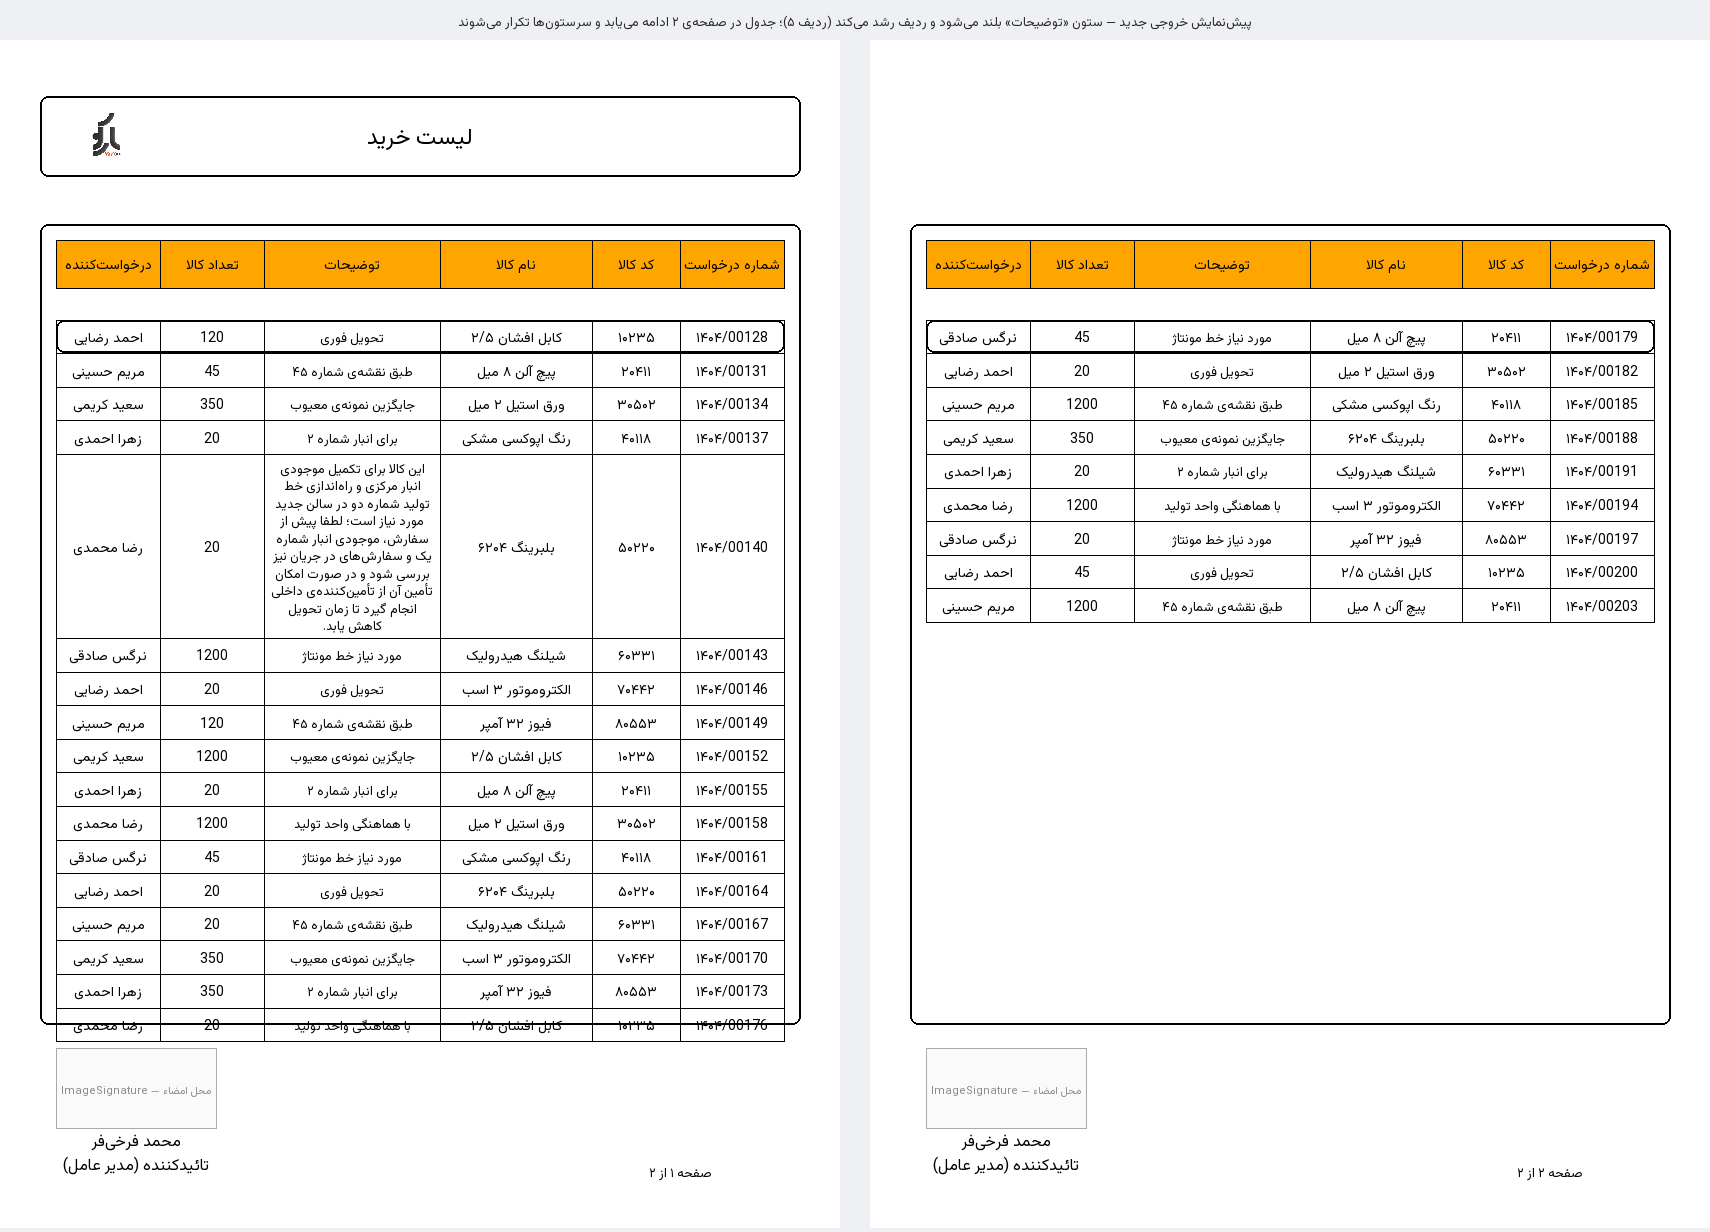
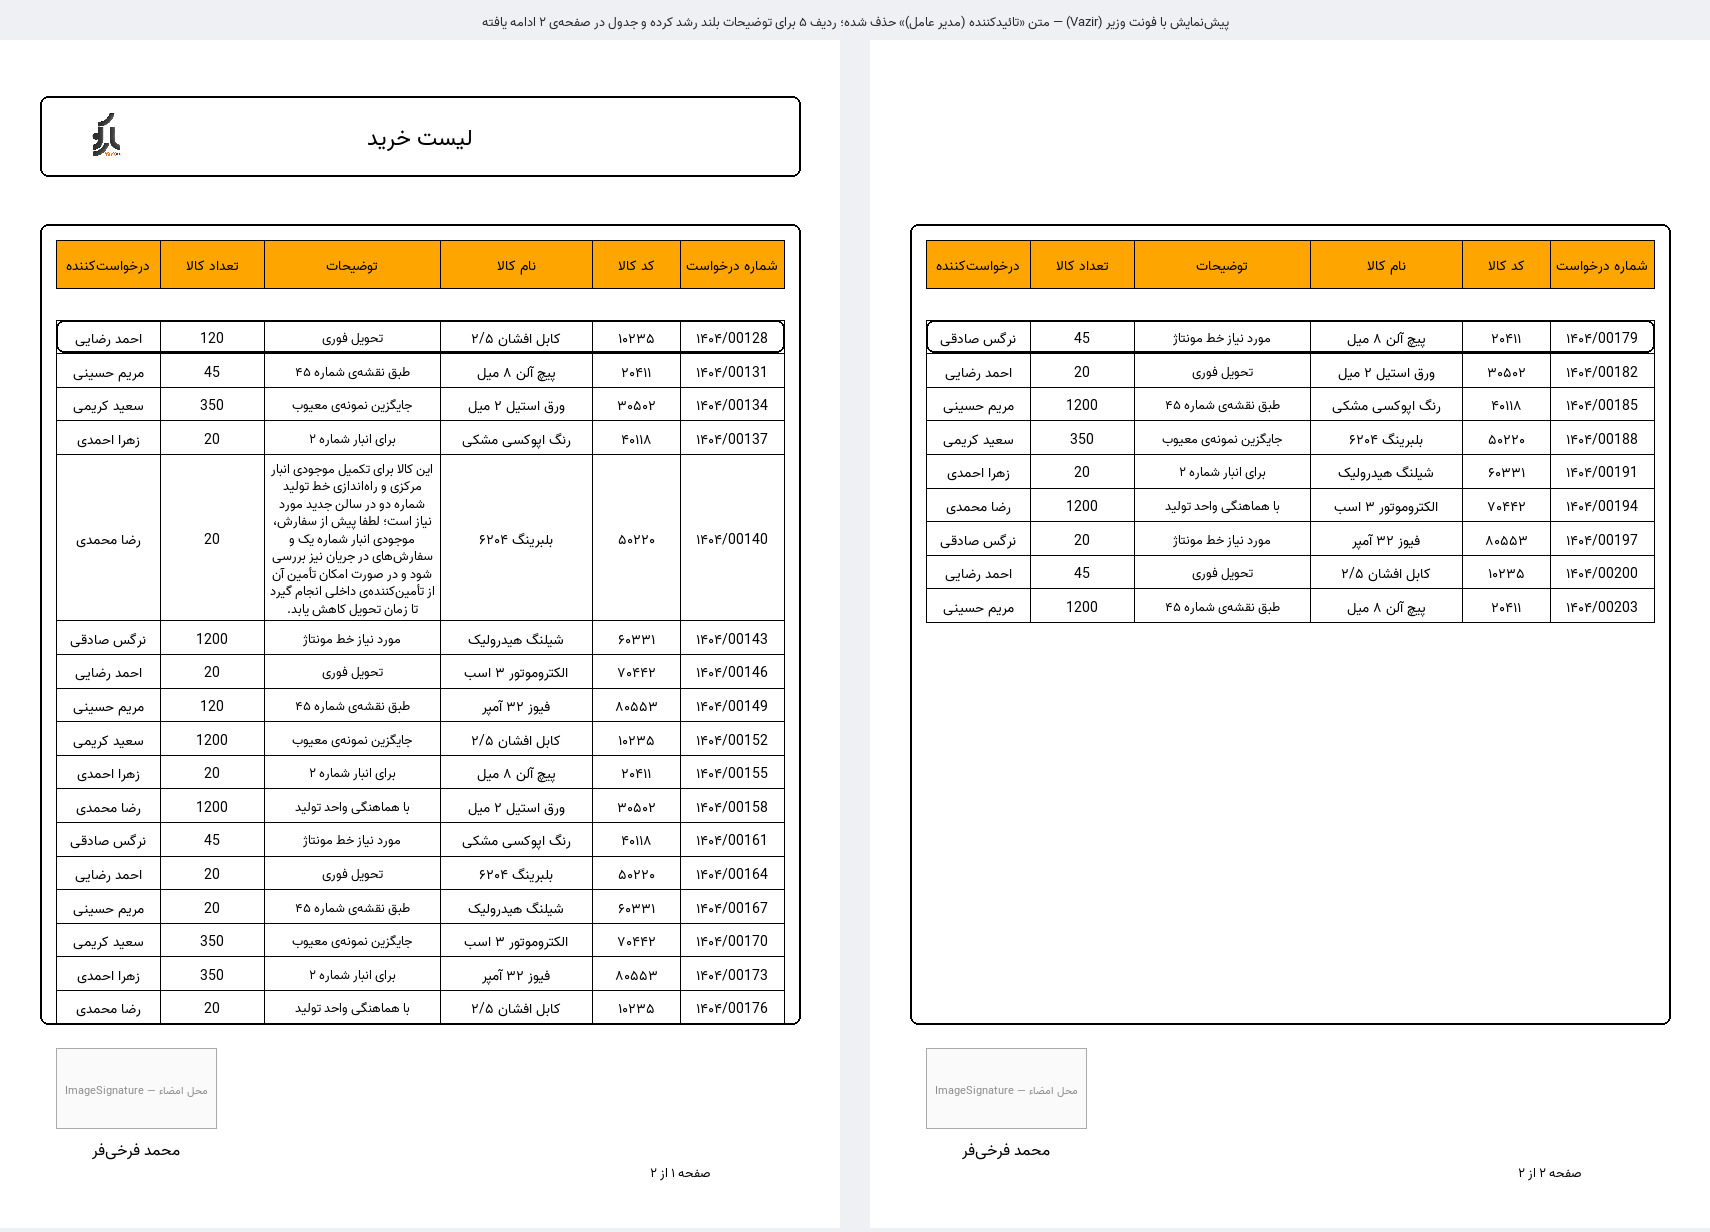
حذفِ متن «تائیدکننده (مدیر عامل)» و تغییرِ فونتِ کلِ گزارش به Vazir
۱) حذفِ کامپوننت Text9 (برچسبِ «تائیدکننده (مدیر عامل)») از PageFooterBand1.
   پانویس حالا فقط ۳ کامپوننت دارد: تصویرِ امضا {ImageSignature}،
   نام {DataSource1.TaiidKonandeName} و شماره صفحه. count از ۴ به ۳ کاهش یافت.

۲) جابهجاییِ جزئیِ نام به y=2.3 (قبلاً 2.1) تا فاصلهاش با تصویرِ امضا
   (که در y=2.1 تمام میشود) متعادل شود.

۳) تغییرِ فونتِ همهی ۱۵ المان از "B Yekan" به "Vazir":
   Vazir,16 عنوان | Vazir,11 نام تاییدکننده | Vazir,10 سرستونها و سلولها
   | Vazir,9 توضیحات و شماره صفحه.
   نامِ دقیقِ خانوادهی فونت در فایلِ TTF برابر با "Vazir" تأیید شد.

۴) بازسازیِ پیشنمایش با فونتِ Vazir واقعی (نسخهی 30.1.0) و پانویسِ بدون برچسب.

۵) مستندات: بخش ۳ بازنویسی شد، بخش ۳-ب (فونت و الزامِ نصب روی سرور) اضافه شد.

QC: XML معتبر · Ref یکتا · countها صحیح · هیچ B Yekan باقی نمانده ·
PrintOnAllPages و GrowToHeight دستنخورده · BOM/CRLF حفظ شده.

diff --git a/KalaRequest-GUIDE-fa.md b/KalaRequest-GUIDE-fa.md
@@ -64,21 +64,56 @@
 | راست (x=۱۴) | انباردار | `{DataSource1.UserName}` | `{ImageAnbar}` |
 | چپ (x=۰.۴) | تائیدکننده | `{DataSource1.SematName}` | `{ImageSignature}` |
 
-**بعد از تغییر** — فقط یک باکس:
+**بعد از تغییر** — فقط یک باکس، **و بدونِ برچسبِ متنی**:
 
-| موقعیت | برچسب | نام | تصویر امضا |
-|--------|-------|-----|------------|
-| ~~راست~~ | ~~انباردار~~ — **حذف شد** | — | — |
-| چپ (x=۰.۴) | **تائیدکننده (مدیر عامل)** | `{DataSource1.TaiidKonandeName}` | `{ImageSignature}` |
+| کامپوننت | موقعیت | محتوا |
+|----------|--------|-------|
+| ~~باکسِ انباردار~~ | ~~راست~~ | **حذف شد** |
+| `Image1` | ۰.۴ , ۰.۱ — ۴×۲ | تصویر امضا `{ImageSignature}` |
+| `Text6` | ۰.۴ , ۲.۳ — ۴×۰.۶ | نام `{DataSource1.TaiidKonandeName}` |
+| `Text_PageNumber` | ۱۳.۵ , ۲.۹ — ۵×۰.۶ | «صفحه {PageNumber} از {TotalPageCount}» |
 
-تغییرات جزئیِ این بخش:
+> بنا به درخواست، متنِ «تائیدکننده (مدیر عامل)» از پانویس **حذف شد** — نیازی نبود.
+> حالا فقط تصویرِ امضا و نامِ تاییدکننده زیر آن چاپ میشود.
+
+تغییراتِ این بخش:
 * کامپوننتهای `Image5`، `Text7` (انباردار) و `Text8` (`{UserName}`) حذف شدند
-* نام و برچسب زیر امضا هر دو `HorAlignment = Center` شدند و عرضشان دقیقاً با کادر امضا
-  (۴cm) یکی شد — قبلاً نام ۰.۸cm به چپ میلغزید و تراز نبود
-* ارتفاع کادر امضا ۲.۲ → ۲cm شد تا به انتهای باند نچسبد
+* کامپوننت `Text9` (برچسب «تائیدکننده (مدیر عامل)») نیز حذف شد
+* نام زیر امضا `HorAlignment = Center` شد و عرضش دقیقاً با کادر امضا (۴cm) یکی است
+  — قبلاً ۰.۸cm به چپ میلغزید و تراز نبود
+* ارتفاع کادر امضا ۲.۲ → ۲cm شد و نام کمی پایینتر رفت (y از ۲.۱ به ۲.۳)
+  تا فاصلهاش با تصویرِ امضا متعادل شود
 * متغیر `{ImageAnbar}` دیگر استفاده نمیشود (در دیکشنری باقی است، بیخطر)
 
 ---
+
+## ۳-ب. فونت: همهجا Vazir (وزیر)
+
+فونتِ کلِ گزارش از **B Yekan** به **Vazir** تغییر یافت (۱۵ مورد):
+
+| اندازه | کاربرد | تعداد |
+|--------|--------|-------|
+| `Vazir,16` | عنوان «لیست خرید» | ۱ |
+| `Vazir,11` | نامِ تاییدکننده در پانویس | ۱ |
+| `Vazir,10` | سرستونها و سلولهای جدول | ۱۱ |
+| `Vazir,9`  | ستونِ توضیحات و شماره صفحه | ۲ |
+
+### ⚠ الزام: فونت باید نصب باشد
+
+Stimulsoft فونت را در فایلِ mrt جاسازی نمیکند — فقط **نامِ خانواده** را ذخیره میکند.
+بنابراین فونتِ Vazir باید روی **هر دستگاهی که گزارش را اجرا یا چاپ میکند** نصب باشد
+(بهویژه روی سرور، اگر خروجیِ PDF در سمتِ سرور ساخته میشود).
+
+* دانلود: <https://github.com/rastikerdar/vazir-font/releases>
+* نصب روی ویندوز: فایلهای `.ttf` را انتخاب → راستکلیک → **Install for all users**
+* بعد از نصب، IIS/برنامه را یک بار **restart** کنید تا فونت شناسایی شود
+* تأیید: نامِ دقیقِ خانواده در ویندوز **`Vazir`** است (نه `Vazirmatn`)
+
+> اگر روی سیستم شما Vazirmatn نصب است، کافی است در دیزاینر مقدارِ `Font` را
+> به `Vazirmatn,10` و غیره تغییر دهید (ظاهر تقریباً یکسان است).
+
+---
+
 
 ## ۴. ستونهای جدیدِ دیکشنری
 
@@ -353,7 +388,7 @@ report.Render();
 |------|-------|
 | `KalaRequest.mrt` | ⭐ فایل اصلی و نهایی — همین را جایگزین کنید |
 | `KalaRequest-Backend.cs` | ⭐ **متدِ اصلاحشدهی `GetListOfTaminDarkhastViewModel`** — جایگزینِ متدِ فعلیتان کنید |
-| `KalaRequest-preview.png` | پیشنمایشِ ۲ صفحهای با دادهی نمونه — رشدِ ردیف برای توضیحاتِ بلند + تکرارِ سرستون در صفحهی ۲ |
+| `KalaRequest-preview.png` | پیشنمایشِ ۲ صفحهای با **فونتِ Vazir واقعی** — رشدِ ردیف برای توضیحاتِ بلند + تکرارِ سرستون در صفحهی ۲ |
 | `Report.jpg` | نمونهی چاپِ قبلی که خودتان فرستادید (تغییر نکرده) |
 | `KalaRequest-GUIDE-fa.md` | این راهنما |
 
@@ -370,6 +405,8 @@ report.Render();
 * ✅ هیچ کامپوننتِ یتیمی — `Parent` هر کامپوننت با باند/صفحهی واقعیِ آن مطابق است
 * ✅ `PrintOnAllPages = True` روی `HeaderBand2` و قابِ عنوان داخل `HeaderBand1`
 * ✅ BOM و خطکِشِ CRLF فایل اصلی حفظ شده
+* ✅ فونتِ همهی ۱۵ المان روی `Vazir` ست شده (هیچ `B Yekan` باقی نمانده)
+* ✅ برچسبِ «تائیدکننده (مدیر عامل)» حذف شده — پانویس فقط امضا + نام + شماره صفحه
 
 نامِ پراپرتیهای استفادهشده (`GrowToHeight`، `PrintOnAllPages`) با نمونههای
 رسمیِ Stimulsoft روی مخزنِ `stimulsoft/Samples-Reports.*` تطبیق داده شده است.
